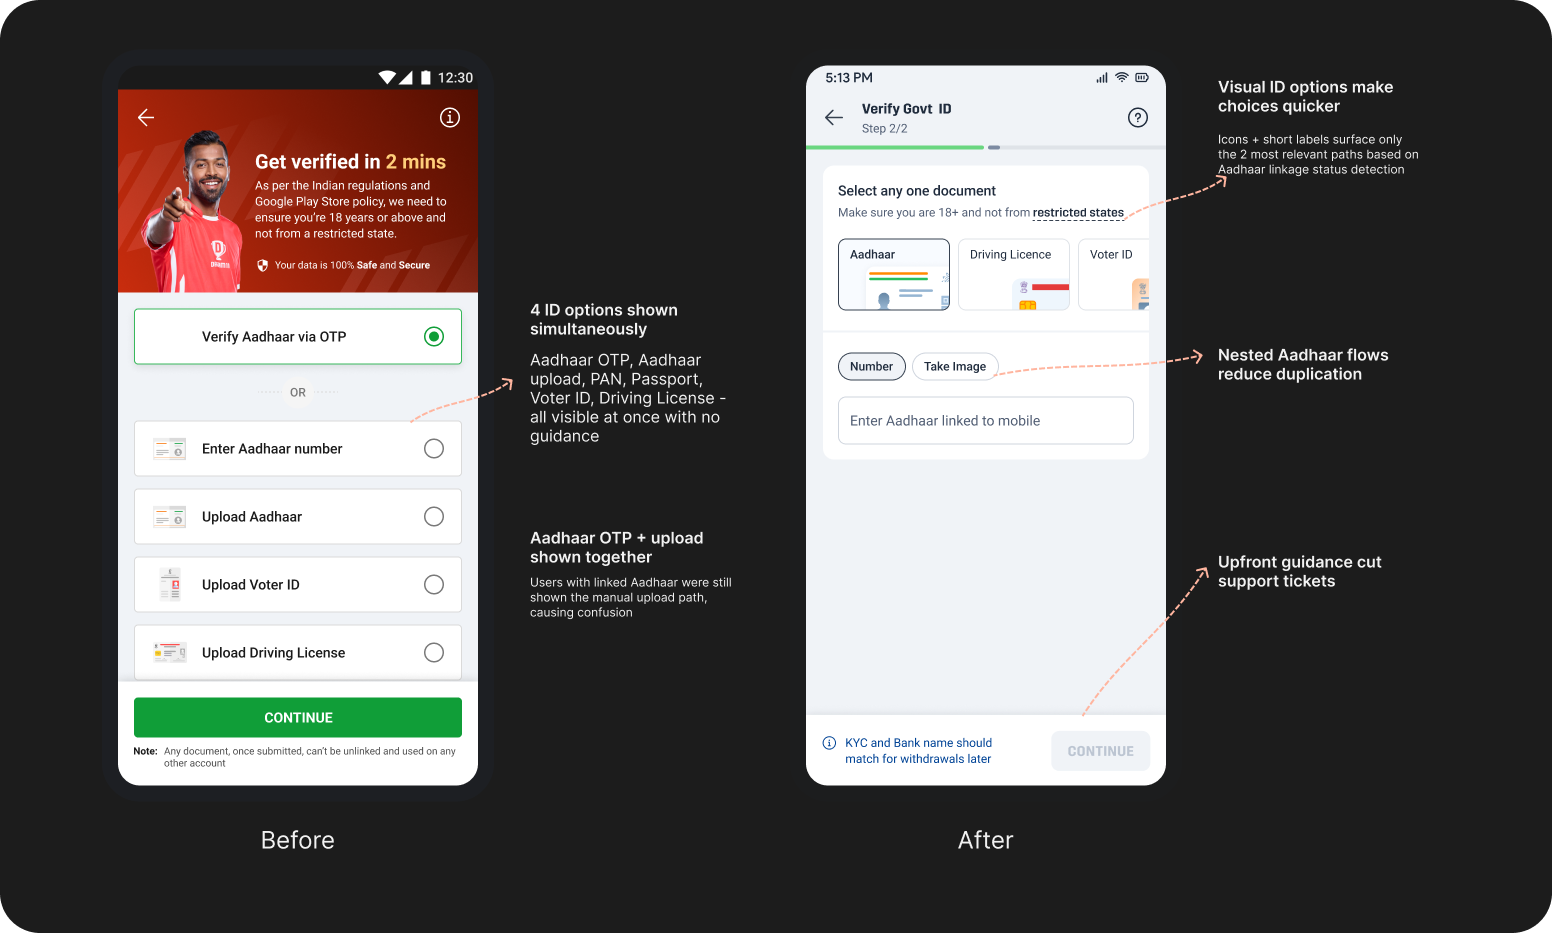
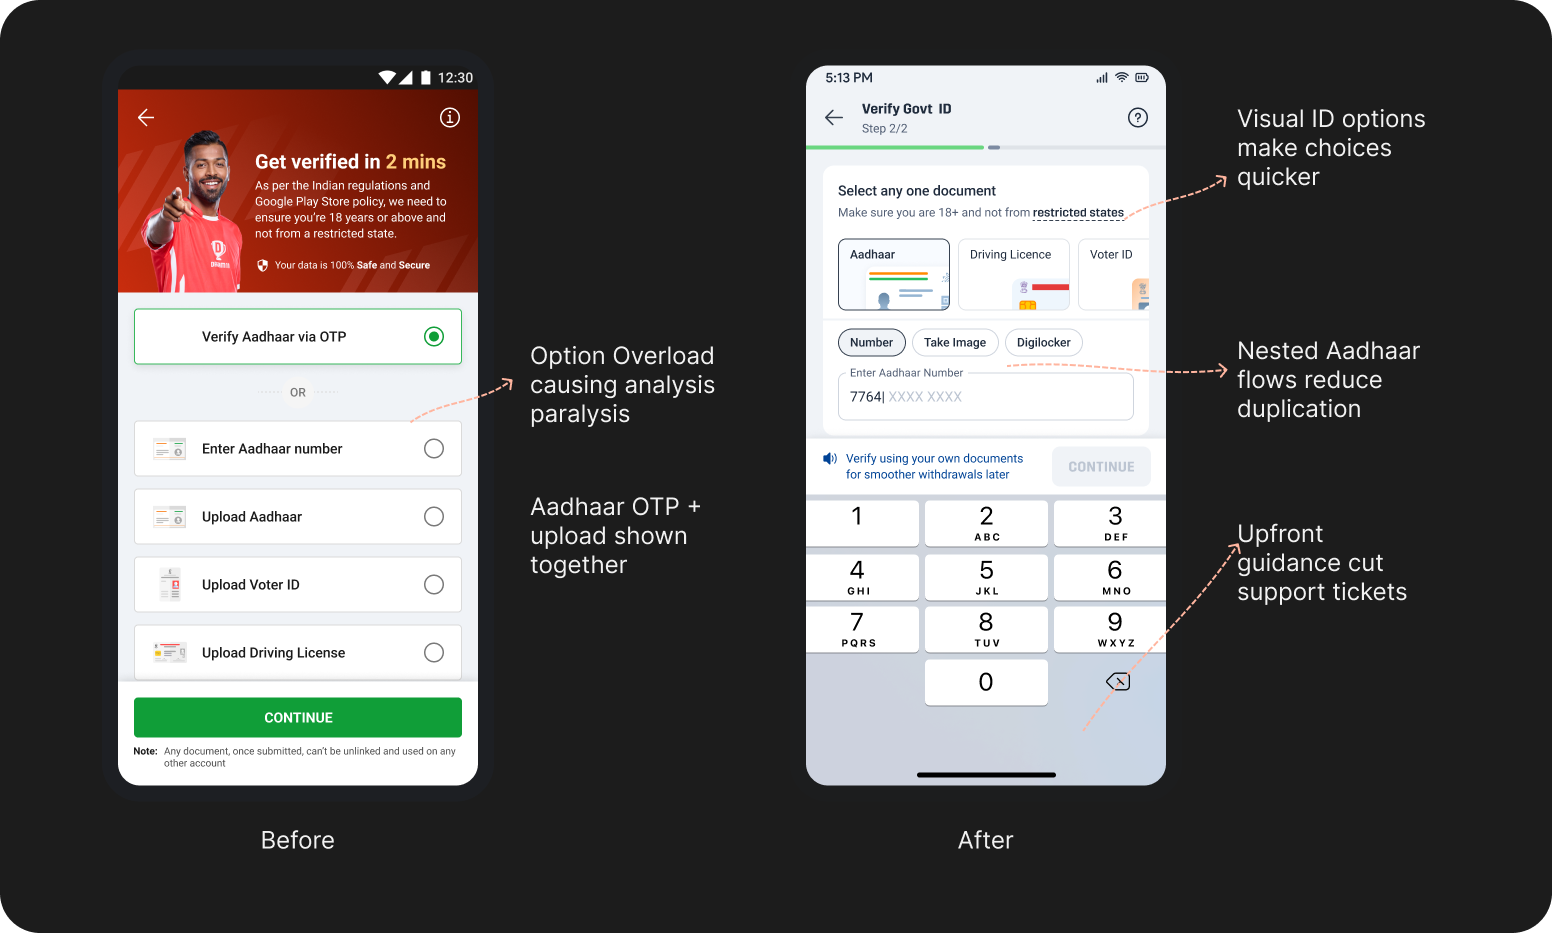
hi

diff --git a/Verification/new-verification-v2.html b/Verification/new-verification-v2.html
@@ -2305,10 +2305,25 @@ img { display: block; max-width: 100%; }
 }
 .s-landscape-mockup-label { display: none; }
 
+/* s-metrics section */
+.s-metrics { padding: var(--space-10) var(--space-5); background: var(--background); }
+.s-metrics-inner { max-width: var(--width-wide); margin: 0 auto; display: flex; flex-direction: column; gap: var(--space-7); }
+.s-metrics-header { display: flex; flex-direction: column; gap: var(--space-3); }
+.s-metrics-eyebrow { font-size: var(--text-body-sm); font-weight: 700; letter-spacing: var(--tracking-wide); text-transform: uppercase; color: var(--primary); }
+.s-metrics-title { font-size: var(--text-h2); font-weight: 800; letter-spacing: var(--tracking-display); line-height: var(--leading-tight); color: var(--on-surface); }
+.s-metrics-card { background: var(--surface-container); border: 1px solid rgba(255,255,255,0.07); border-radius: 20px; padding: var(--space-7); }
+.s-metrics-grid { display: grid; grid-template-columns: 1fr; gap: var(--space-7); }
+@media (min-width: 640px) { .s-metrics-grid { grid-template-columns: 1fr 1fr 1fr; } }
+.s-metrics-item { display: flex; flex-direction: column; gap: var(--space-2); }
+.s-metrics-label { font-size: var(--text-body-sm); font-weight: 700; letter-spacing: var(--tracking-wide); text-transform: uppercase; color: var(--on-surface-variant); }
+.s-metrics-value { font-family: 'Manrope', sans-serif; font-size: clamp(1.5rem, 3vw, 2.25rem); font-weight: 800; line-height: var(--leading-tight); color: var(--on-surface); }
+.s-metrics-highlight { color: var(--primary); }
+.s-metrics-value-unit { font-size: var(--text-body-lg); font-weight: 600; color: var(--on-surface-variant); }
+.s-metrics-sub { font-size: var(--text-body); font-style: italic; color: var(--on-surface-variant); line-height: var(--leading-normal); margin: 0; }
+
 /* s-who section */
-.s-who { position: relative; padding: var(--space-10) var(--space-5); background: var(--background); }
-.s-who::before { content: ''; position: absolute; inset: 0; background: url('https://cdn.jsdelivr.net/gh/Bhavika-Maloo/work@main/Verification/original/Mask%20group.png') center center / cover no-repeat; opacity: 0.4; pointer-events: none; }
-.s-who-inner { position: relative; max-width: var(--width-wide); margin: 0 auto; display: flex; flex-direction: column; gap: var(--space-7); }
+.s-who { padding: var(--space-10) var(--space-5); background: var(--background); }
+.s-who-inner { max-width: var(--width-wide); margin: 0 auto; display: flex; flex-direction: column; gap: var(--space-7); }
 .s-who-header { display: flex; flex-direction: column; gap: var(--space-3); }
 .s-who-eyebrow { font-size: var(--text-body-sm); font-weight: 700; letter-spacing: var(--tracking-wide); text-transform: uppercase; color: var(--primary); }
 .s-who-title { font-size: var(--text-h2); font-weight: 800; letter-spacing: var(--tracking-display); line-height: var(--leading-tight); color: var(--on-surface); }
@@ -2389,18 +2404,19 @@ img { display: block; max-width: 100%; }
 .s-wd-title { font-family: 'Manrope', sans-serif; font-size: var(--text-h2); font-weight: 800; letter-spacing: var(--tracking-display); color: var(--on-surface); line-height: var(--leading-tight); }
 .s-wd-sub { font-size: var(--text-h4); color: var(--on-surface-variant); line-height: var(--leading-normal); max-width: var(--width-prose); }
 /* Impact grid */
-.s-impact-grid { display: grid; grid-template-columns: 1fr; gap: var(--space-7); margin-top: var(--space-7); }
+.s-impact-grid { display: grid; grid-template-columns: 1fr; gap: var(--space-7); margin-top: var(--space-7); align-items: stretch; }
+.s-symptom-title { font-size: var(--text-h3); font-weight: 700; color: var(--primary); margin-bottom: var(--space-3); }
+.s-symptom-body { font-size: var(--text-body-lg); color: var(--on-surface-variant); line-height: var(--leading-normal); }
 .s-symptoms { display: flex; flex-direction: column; gap: var(--space-6); }
-.s-symptom-title { font-size: var(--text-body); font-weight: 700; color: var(--primary); margin-bottom: var(--space-2); }
-.s-symptom-body { font-size: var(--text-body-sm); color: var(--on-surface-variant); line-height: var(--leading-normal); }
 .s-stat-cards { display: flex; flex-direction: column; gap: var(--space-3); }
-.s-stat-card { padding: var(--space-5); background: var(--surface-container); border: 1px solid rgba(72,72,72,0.2); border-radius: 12px; }
-.s-stat-num { font-family: 'Manrope', sans-serif; font-size: var(--text-h2); font-weight: 800; letter-spacing: var(--tracking-display); display: block; margin-bottom: var(--space-1); }
-.s-stat-card p { font-size: var(--text-body-sm); color: var(--on-surface-variant); line-height: var(--leading-normal); }
+.s-stat-card { padding: var(--space-5); background: var(--surface-container); border: 1px solid rgba(72,72,72,0.2); border-radius: 12px; flex: 1; display: flex; flex-direction: column; justify-content: center; }
+.s-stat-num { font-family: 'Manrope', sans-serif; font-size: var(--text-h1); font-weight: 800; letter-spacing: var(--tracking-display); display: block; margin-bottom: var(--space-2); }
+.s-stat-card p { font-size: var(--text-body); color: var(--on-surface-variant); line-height: var(--leading-normal); }
 @media (min-width: 640px) {
   .s-scene-title { font-size: var(--text-h2); }
   .s-wd-title { font-size: var(--text-h2); }
-  .s-impact-grid { grid-template-columns: 5fr 3fr; }
+  .s-impact-grid { grid-template-columns: 5fr 3fr; align-items: stretch; }
+  .s-stat-cards { height: 100%; }
 }
 @media (min-width: 1024px) {
   .s-scene-title { font-size: var(--text-h2); }
@@ -2763,16 +2779,12 @@ img { display: block; max-width: 100%; }
       <!-- Left: symptoms -->
       <div class="s-symptoms">
         <div>
-          <p class="s-symptom-title">Symptom 01 — Withdrawal walls</p>
+          <p class="s-symptom-title">Withdrawal walls</p>
           <p class="s-symptom-body">Users reached withdrawal and discovered their PAN, KYC, and bank account names had to match. By then, the mismatch was already baked in. Nothing at deposit had warned them.</p>
         </div>
         <div>
-          <p class="s-symptom-title">Symptom 02 — PAN entry failures</p>
+          <p class="s-symptom-title">PAN entry failures</p>
           <p class="s-symptom-body">88% of PAN verification failures were data-entry mismatches. Users were re-typing names the system already had on file from prior KYC.</p>
-        </div>
-        <div>
-          <p class="s-symptom-title">Symptom 03 — Re-verification fatigue</p>
-          <p class="s-symptom-body">Already-verified users were being asked to verify again to satisfy the upcoming regulation. Each touchpoint behaved as if prior verification didn't exist.</p>
         </div>
       </div>
 
@@ -3334,8 +3346,65 @@ img { display: block; max-width: 100%; }
   </div>
 </section>
 
+<!-- Section: Metrics -->
+<section class="s-metrics">
+  <div class="s-metrics-inner">
+    <div class="s-metrics-header">
+      <span class="s-metrics-eyebrow">Results</span>
+      <h2 class="s-metrics-title">Impact at a glance.</h2>
+    </div>
+    <div class="s-metrics-card">
+      <div class="s-metrics-grid">
+
+        <div class="s-metrics-item">
+          <span class="s-metrics-label">PAN Success Rate</span>
+          <div class="s-metrics-value">~50% → <span class="s-metrics-highlight">~72%</span></div>
+          <p class="s-metrics-sub">+22pp absolute lift</p>
+        </div>
+
+        <div class="s-metrics-item">
+          <span class="s-metrics-label">PAN Verification TAT</span>
+          <div class="s-metrics-value">12 min → <span class="s-metrics-highlight">2–4 sec</span></div>
+          <p class="s-metrics-sub">~180× faster</p>
+        </div>
+
+        <div class="s-metrics-item">
+          <span class="s-metrics-label">PAN Automation</span>
+          <div class="s-metrics-value">~90% → <span class="s-metrics-highlight">99.99%</span></div>
+          <p class="s-metrics-sub">Manual review nearly eliminated</p>
+        </div>
+
+        <div class="s-metrics-item">
+          <span class="s-metrics-label">Reg → Cash Add Page</span>
+          <div class="s-metrics-value"><span class="s-metrics-highlight">+30%</span></div>
+          <p class="s-metrics-sub">A/B tested, TG vs CG, Dec 15 – Jan 31</p>
+        </div>
+
+        <div class="s-metrics-item">
+          <span class="s-metrics-label">KYC Completion Rate</span>
+          <div class="s-metrics-value">45% → <span class="s-metrics-highlight">~55%</span></div>
+          <p class="s-metrics-sub">Reduced abandonment through better timing</p>
+        </div>
+
+        <div class="s-metrics-item">
+          <span class="s-metrics-label">First Withdrawal Time</span>
+          <div class="s-metrics-value">35 min → <span class="s-metrics-highlight">~8 min</span></div>
+          <p class="s-metrics-sub">Faster trust-building moment</p>
+        </div>
+
+        <div class="s-metrics-item">
+          <span class="s-metrics-label">Verification Support Load</span>
+          <div class="s-metrics-value">~9K → <span class="s-metrics-highlight">~7K</span><span class="s-metrics-value-unit">/week</span></div>
+          <p class="s-metrics-sub">Event-driven support tickets</p>
+        </div>
+
+      </div>
+    </div>
+  </div>
+</section>
+
 <!-- Section 14: Earned Lessons -->
-<section class="s14">
+<section class="s14" style="display:none;">
   <div class="s14-inner">
 
     <header class="s14-header">
